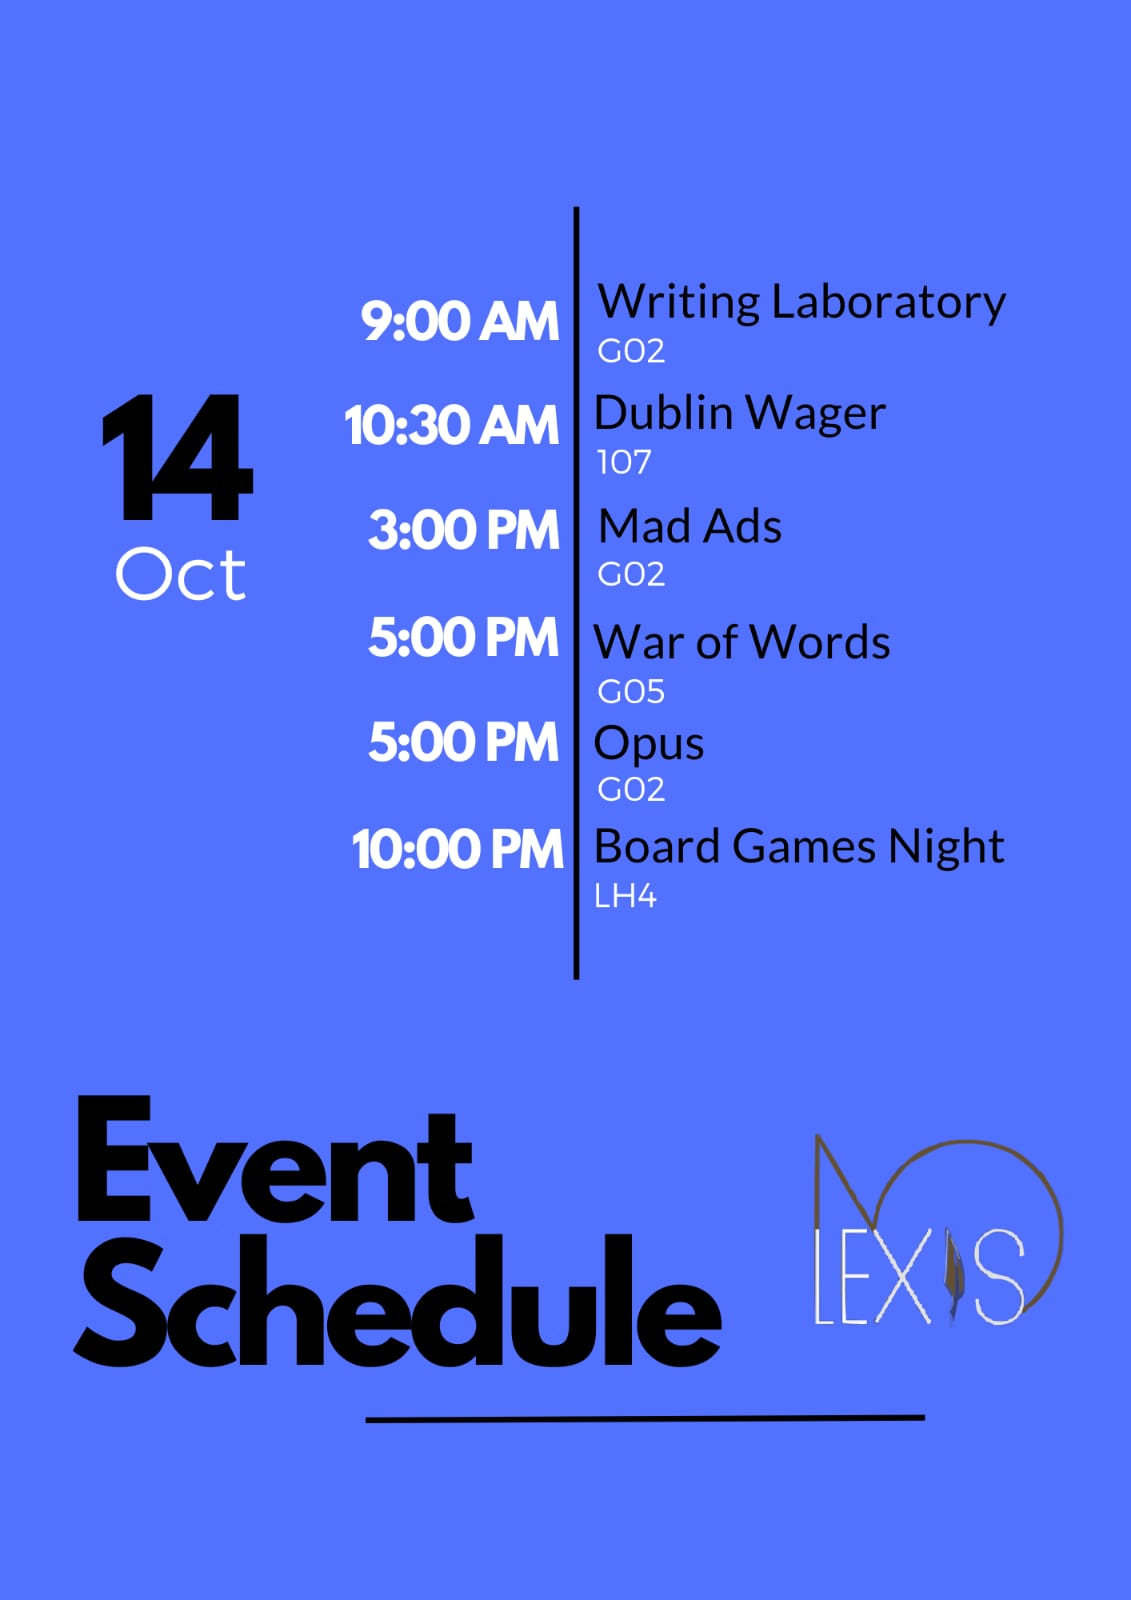
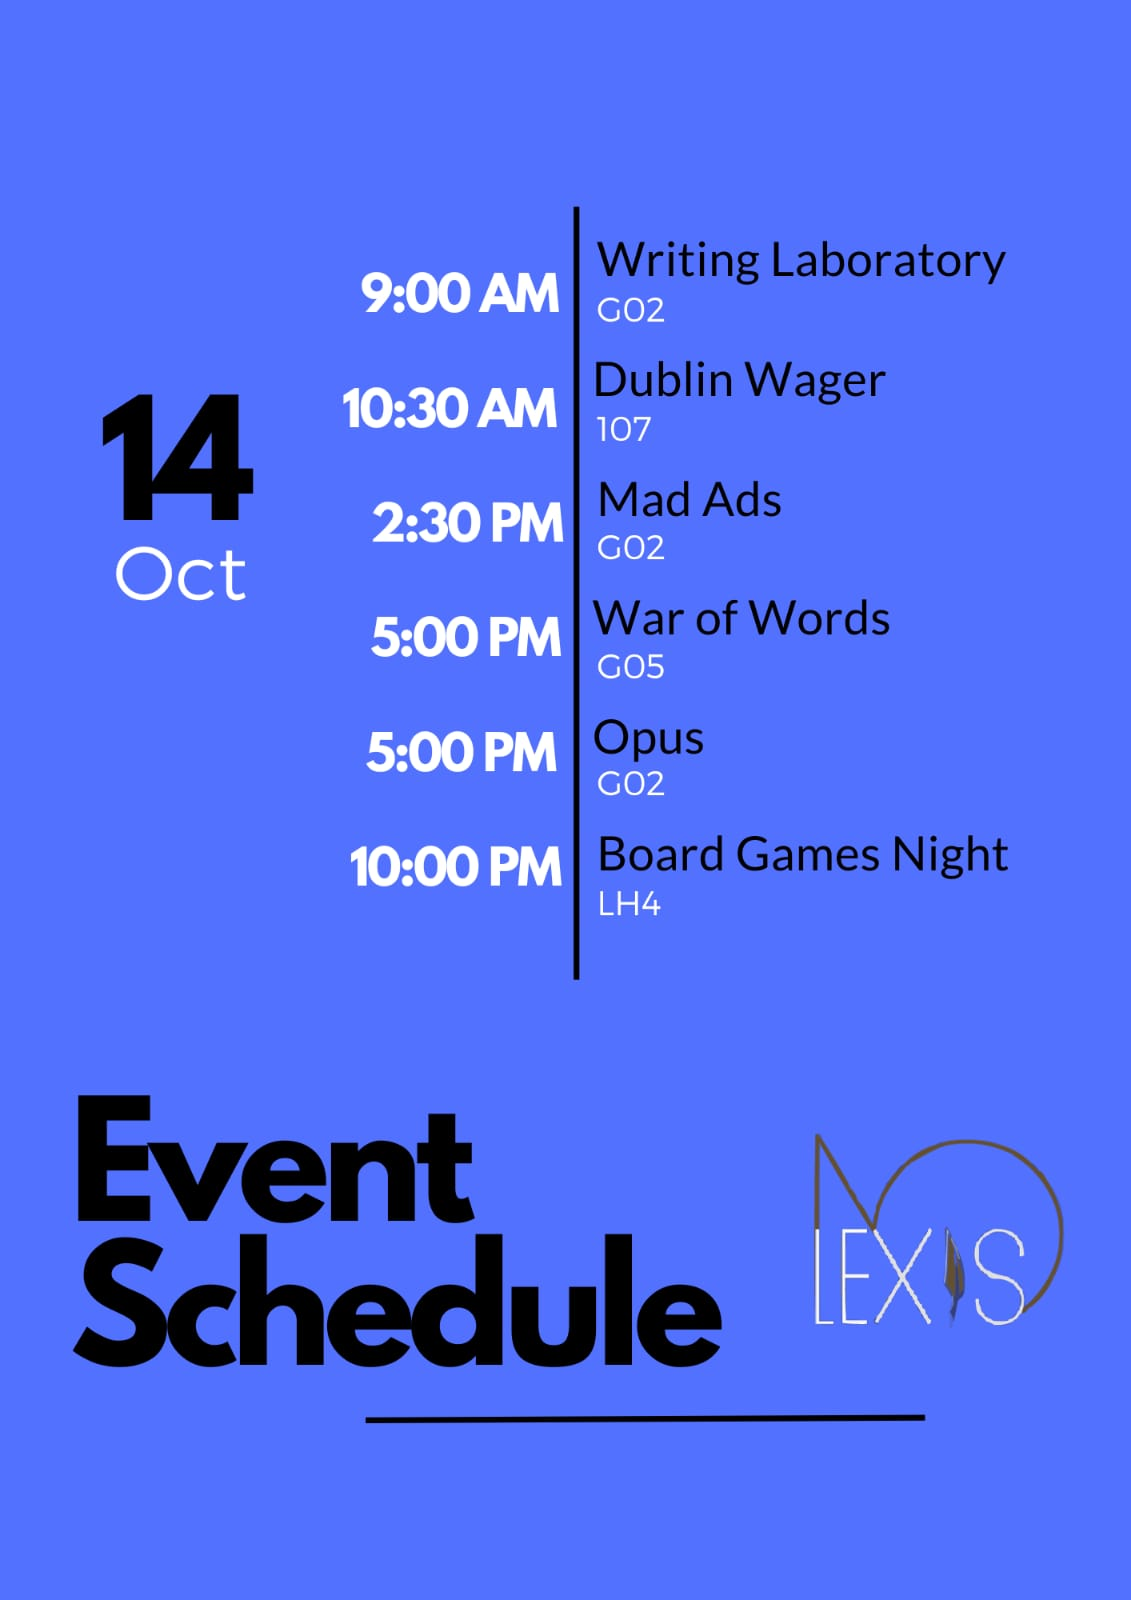
Updated event timings (#11)
* corrected the dates

* updated mad ads timing

diff --git a/src/pages/events/mad_ads.svelte b/src/pages/events/mad_ads.svelte
@@ -7,7 +7,7 @@
 </script>
 
 <H1>Mad Adz</H1>
-<H2>3:00 PM on 14th Oct @ G02</H2>
+<H2>2:30 PM on 14th Oct @ G02</H2>
 <P>
   Who said ads can't be crazy?? Is there any restriction to how creative one can
   be?? In fact the madness of creativity often comes out when we hardly have
@@ -20,10 +20,9 @@
   <li>Teams with 2 to 4 people can participate.</li>
   <li>Registrations shall be conducted on spot, on the day of event itself.</li>
   <li>Topics shall be provided to the teams on spot.</li>
-  <li>40 + 10 min time shall be given for the teams to prepare the skit.</li>
-  <li>
-    The skit should be at least 30 seconds and at most 3 minutes.
-  </li>
+  <li>Topics shall be names of products: eg: “Headphones”. One needs to advertise the product for what it's not generally used for, eg: "Headphones that can hear people's thoughts!"</li>
+  <li>Enactment starts from: 3:25 pm sharp.</li>
+  <li>The skit should be at least 30 seconds and at most 3 minutes.</li>
   <li>There’s no restriction on how creative or humorous one can be in presenting the ads. However vulgarity can lead to disqualification based on the judge’s discretion.
   </li>
 </List>
